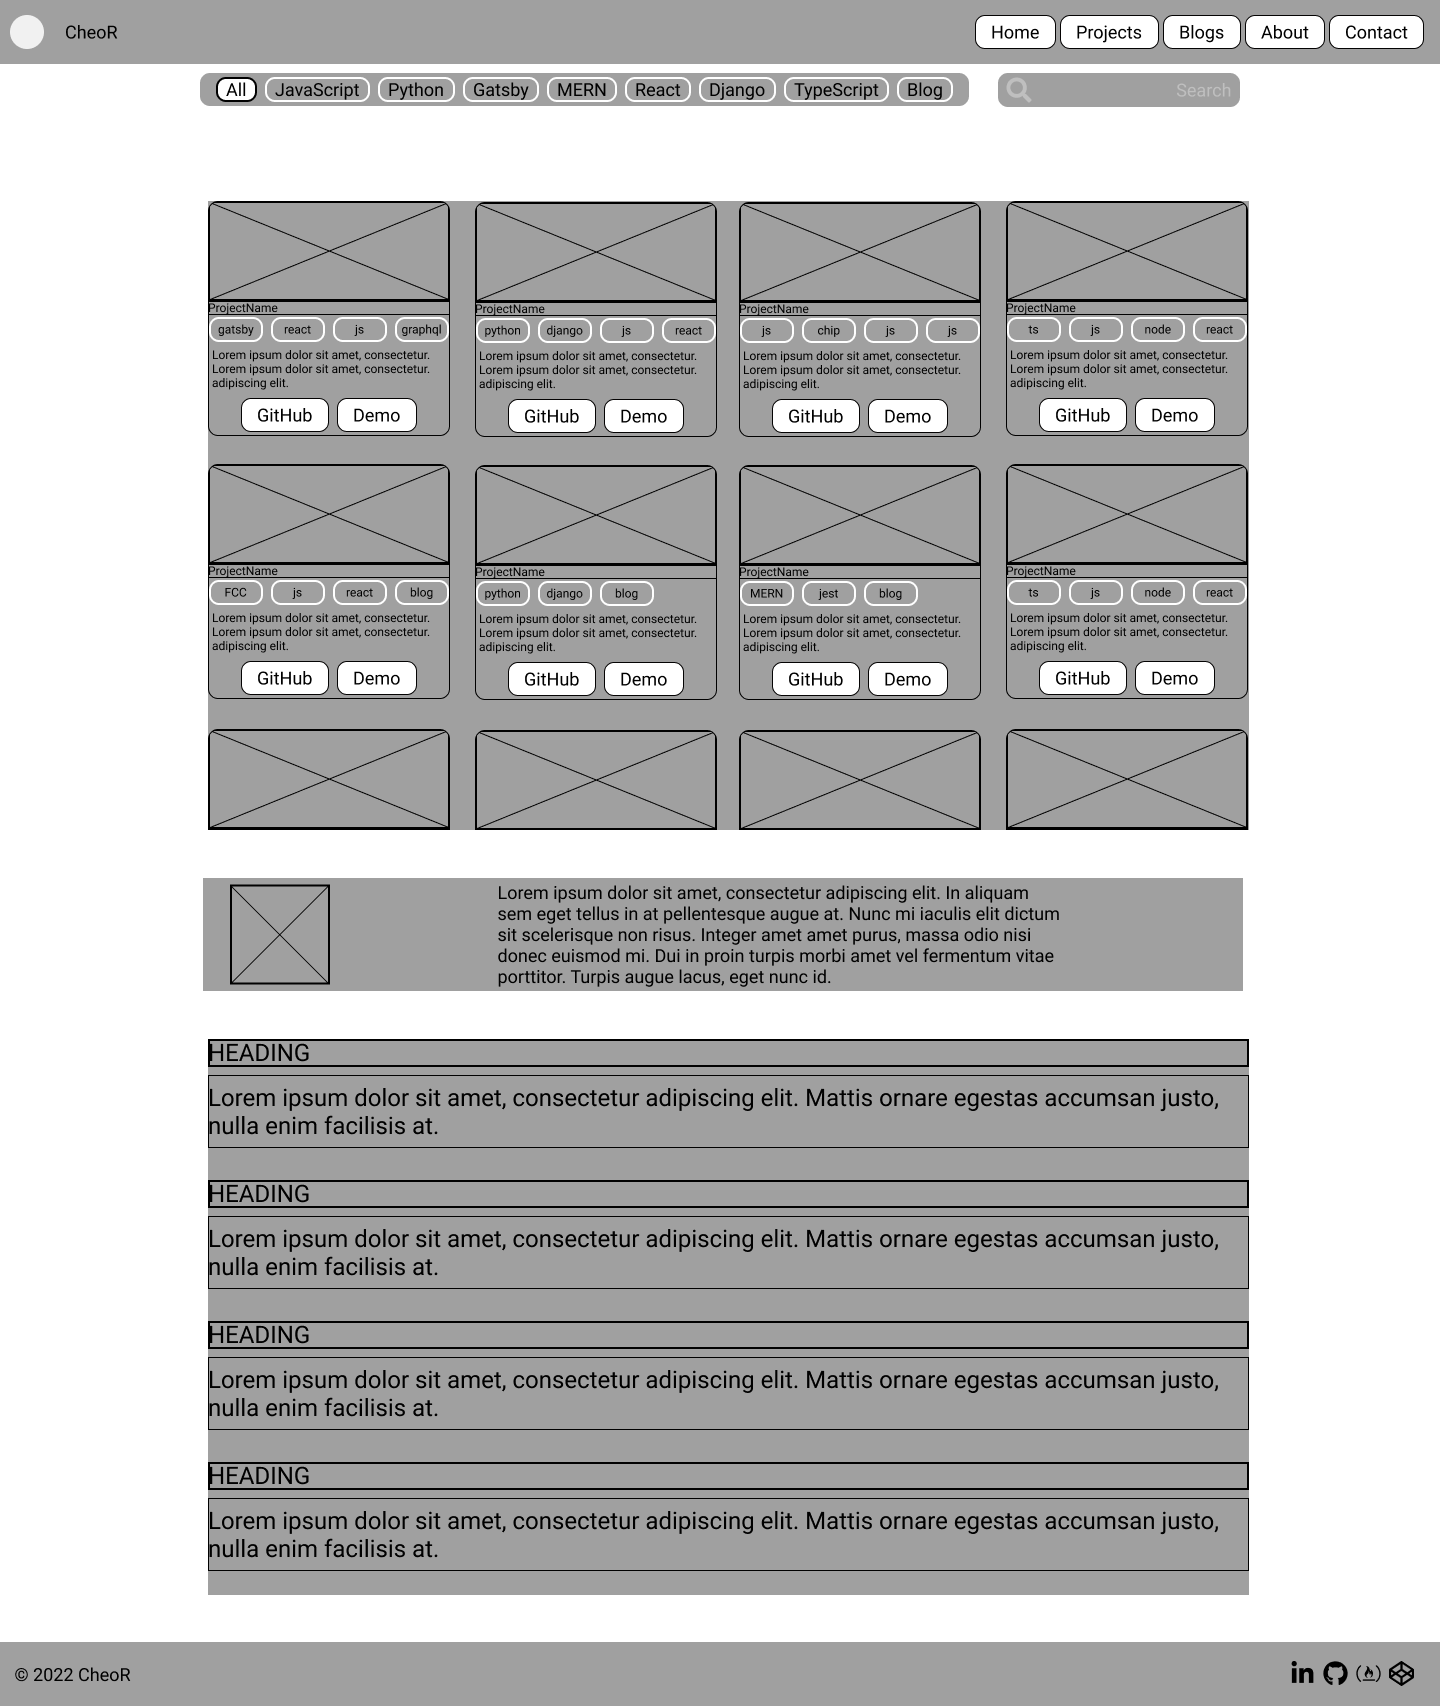
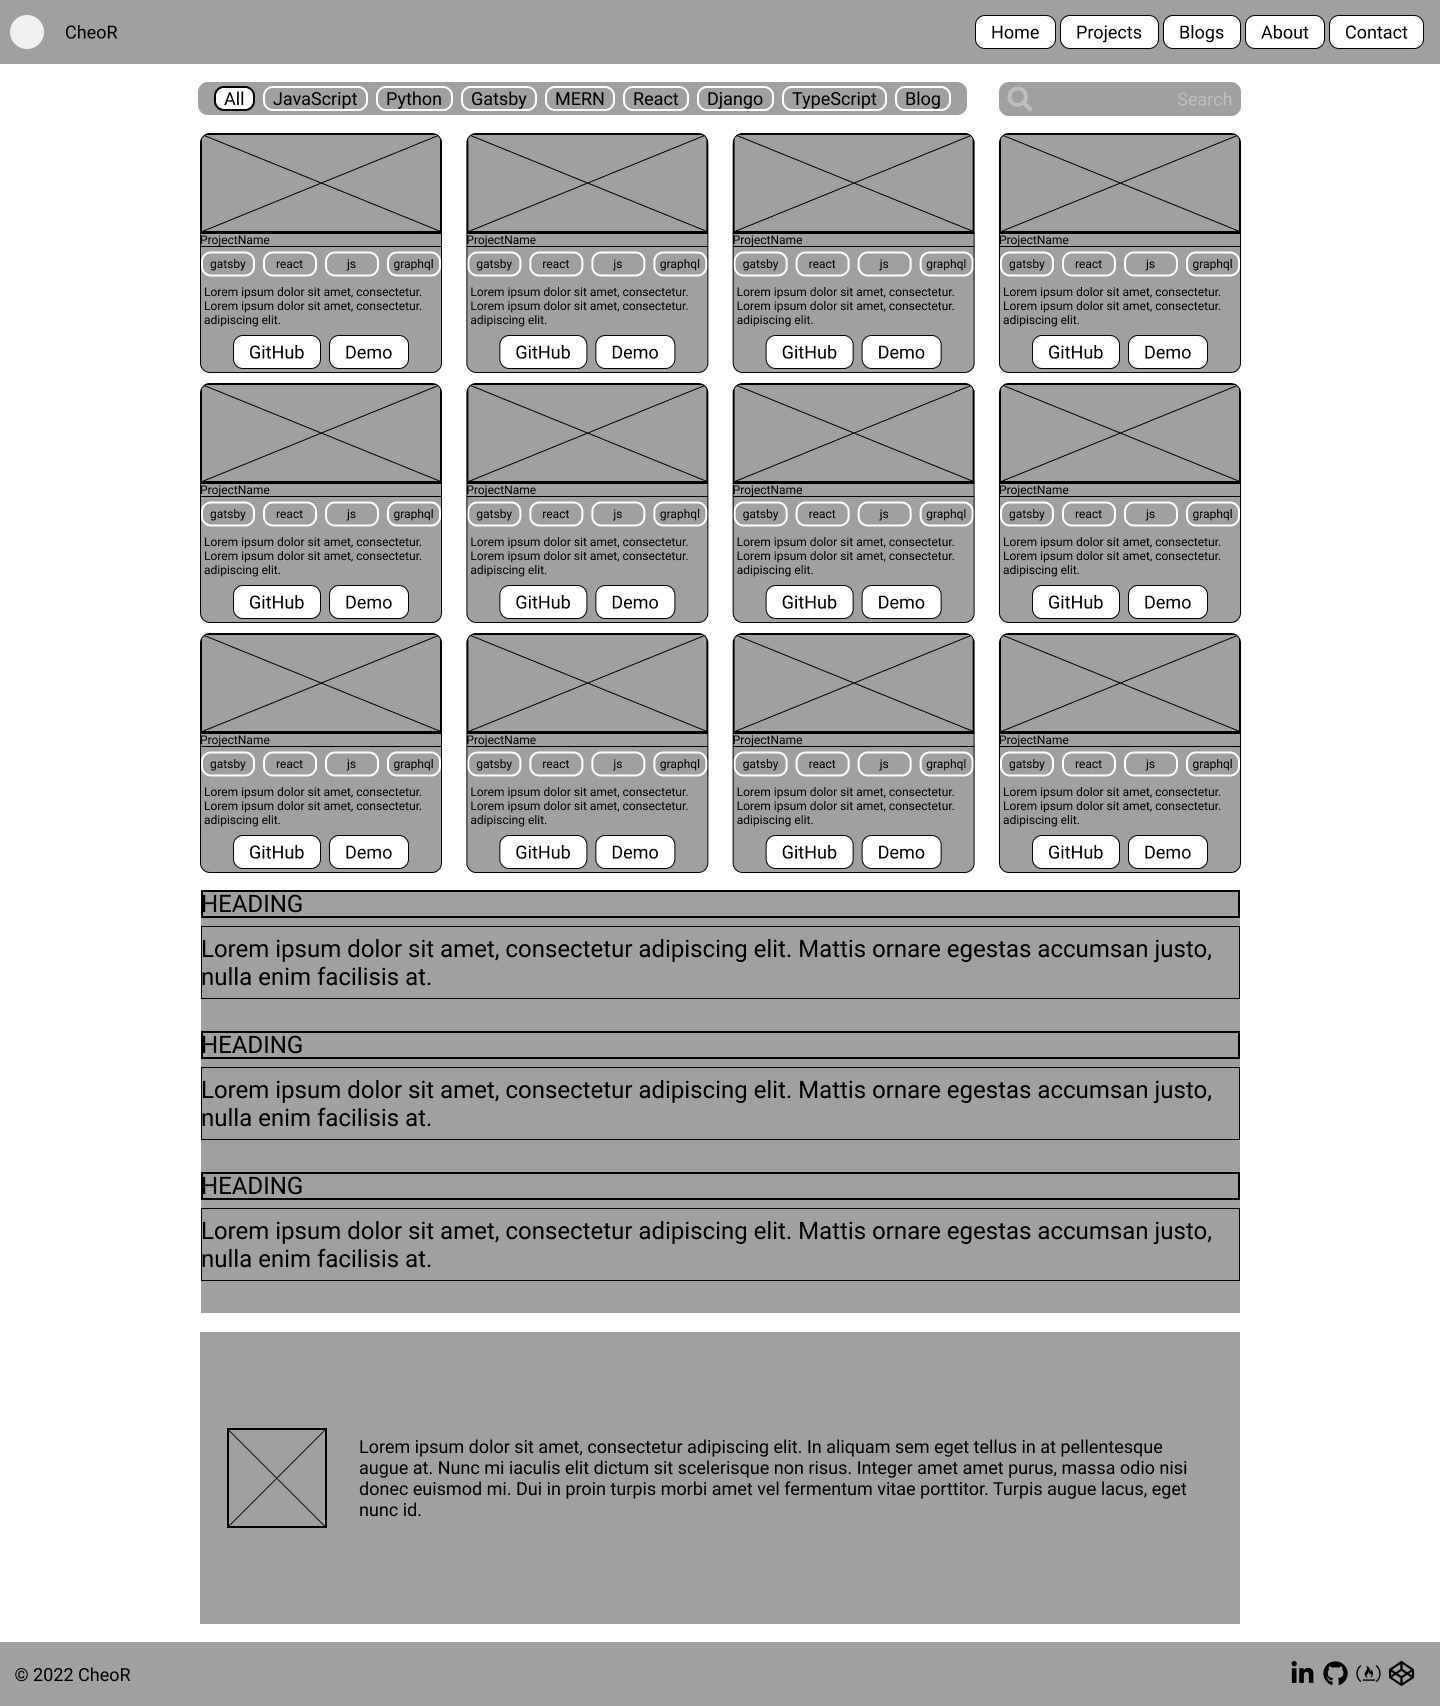
img: wireframe tablet lanscape view.

Changed region(s): [[0.125, 0.0311, 0.875, 0.9631]]

diff --git a/README.md b/README.md
@@ -8,7 +8,9 @@ I'm a Nashville-based developer transitioning from a combined decade in the tran
 
 I'm planning redoing my portfolio with Gatsby.
 
-Desktop wireframe as of now.
+# Wireframes
+
+Desktop
 <!--
 ![Wireframe-Desktop](https://raw.githubusercontent.com/CheoR/portfolio/3198e1d8a2c0bb506466fd05f8536a40abebcec5/assets/images/wireframe_desktop.png)
 -->
@@ -17,6 +19,17 @@ Desktop wireframe as of now.
 <img
 	src="./assets/images/wireframe_desktop.png"
 	alt="Desktop wireframe"
+	style="margin: 0 auto; width: 50%"
+/>
+</p>
+
+
+Tablet - landscape
+
+<p align="center" width="100%">
+<img
+	src="./assets/images/wireframe_tablet_landscape.png"
+	alt="Tablet landscape mode wireframe"
 	style="margin: 0 auto; width: 50%"
 />
 </p>
